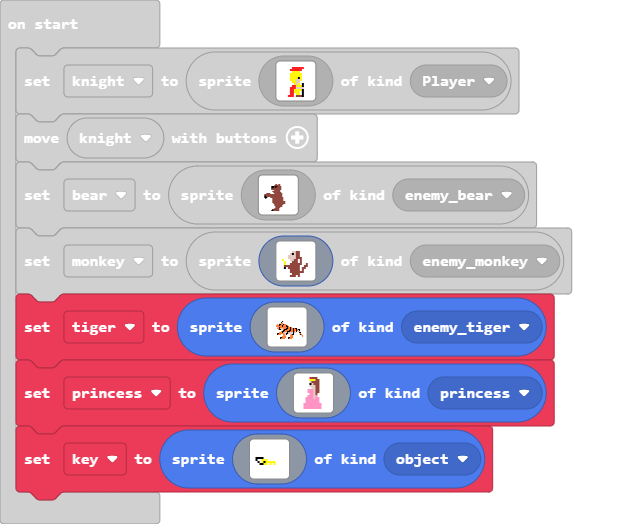
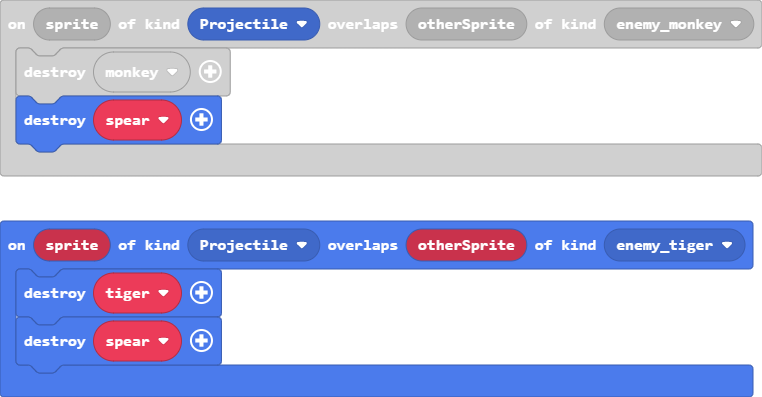
Update main.blocks, main.ts

diff --git a/main.ts b/main.ts
@@ -6,9 +6,6 @@ namespace SpriteKind {
     export const object = SpriteKind.create()
     export const enemy_tiger = SpriteKind.create()
 }
-sprites.onOverlap(SpriteKind.Player, SpriteKind.enemy_monkey, function (sprite, otherSprite) {
-    monkey.destroy()
-})
 controller.A.onEvent(ControllerButtonEvent.Pressed, function () {
     spear = sprites.createProjectileFromSprite(img`
         . . . . . . . . . . . . . . . . 
@@ -33,7 +30,16 @@ sprites.onOverlap(SpriteKind.Projectile, SpriteKind.enemy_bear, function (sprite
     bear.destroy()
     spear.destroy()
 })
+sprites.onOverlap(SpriteKind.Projectile, SpriteKind.enemy_tiger, function (sprite, otherSprite) {
+    tiger.destroy()
+    spear.destroy()
+})
+sprites.onOverlap(SpriteKind.Projectile, SpriteKind.enemy_monkey, function (sprite, otherSprite) {
+    monkey.destroy()
+    spear.destroy()
+})
 let spear: Sprite = null
+let tiger: Sprite = null
 let monkey: Sprite = null
 let bear: Sprite = null
 let knight: Sprite = null
@@ -108,7 +114,7 @@ monkey = sprites.create(img`
     . . . . . . e e e e . . . . . . 
     . . . . . e e e . e . . . . . . 
     `, SpriteKind.enemy_monkey)
-let tiger = sprites.create(img`
+tiger = sprites.create(img`
     ................................
     ................................
     ................................
